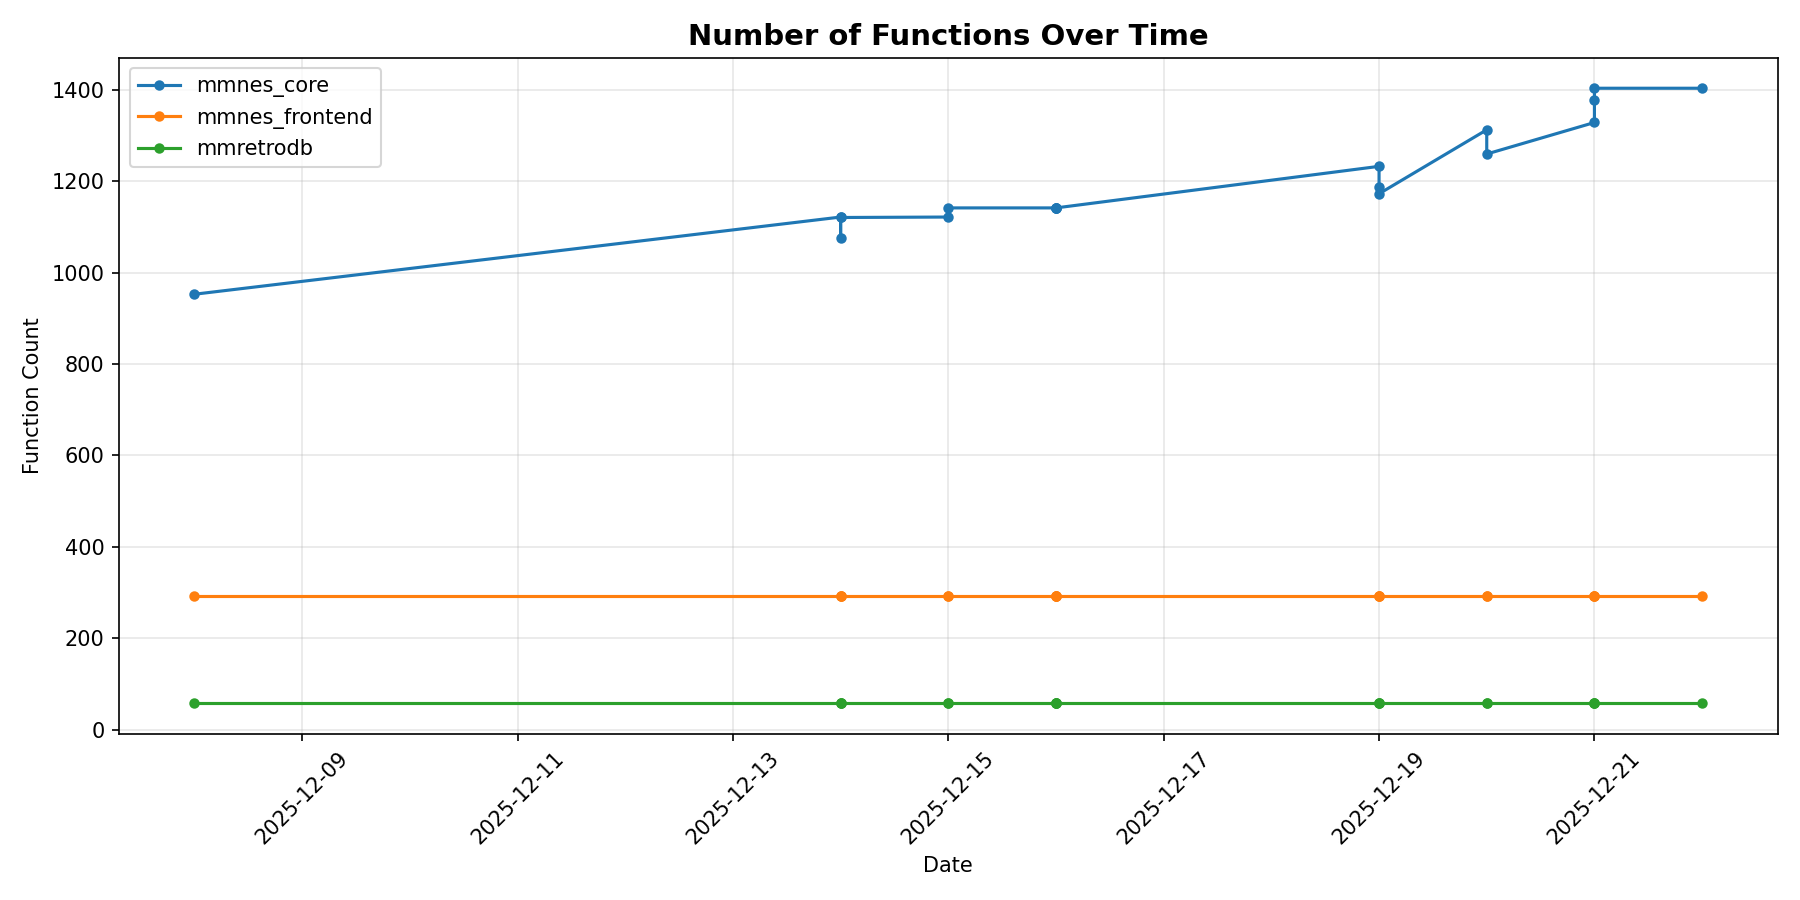
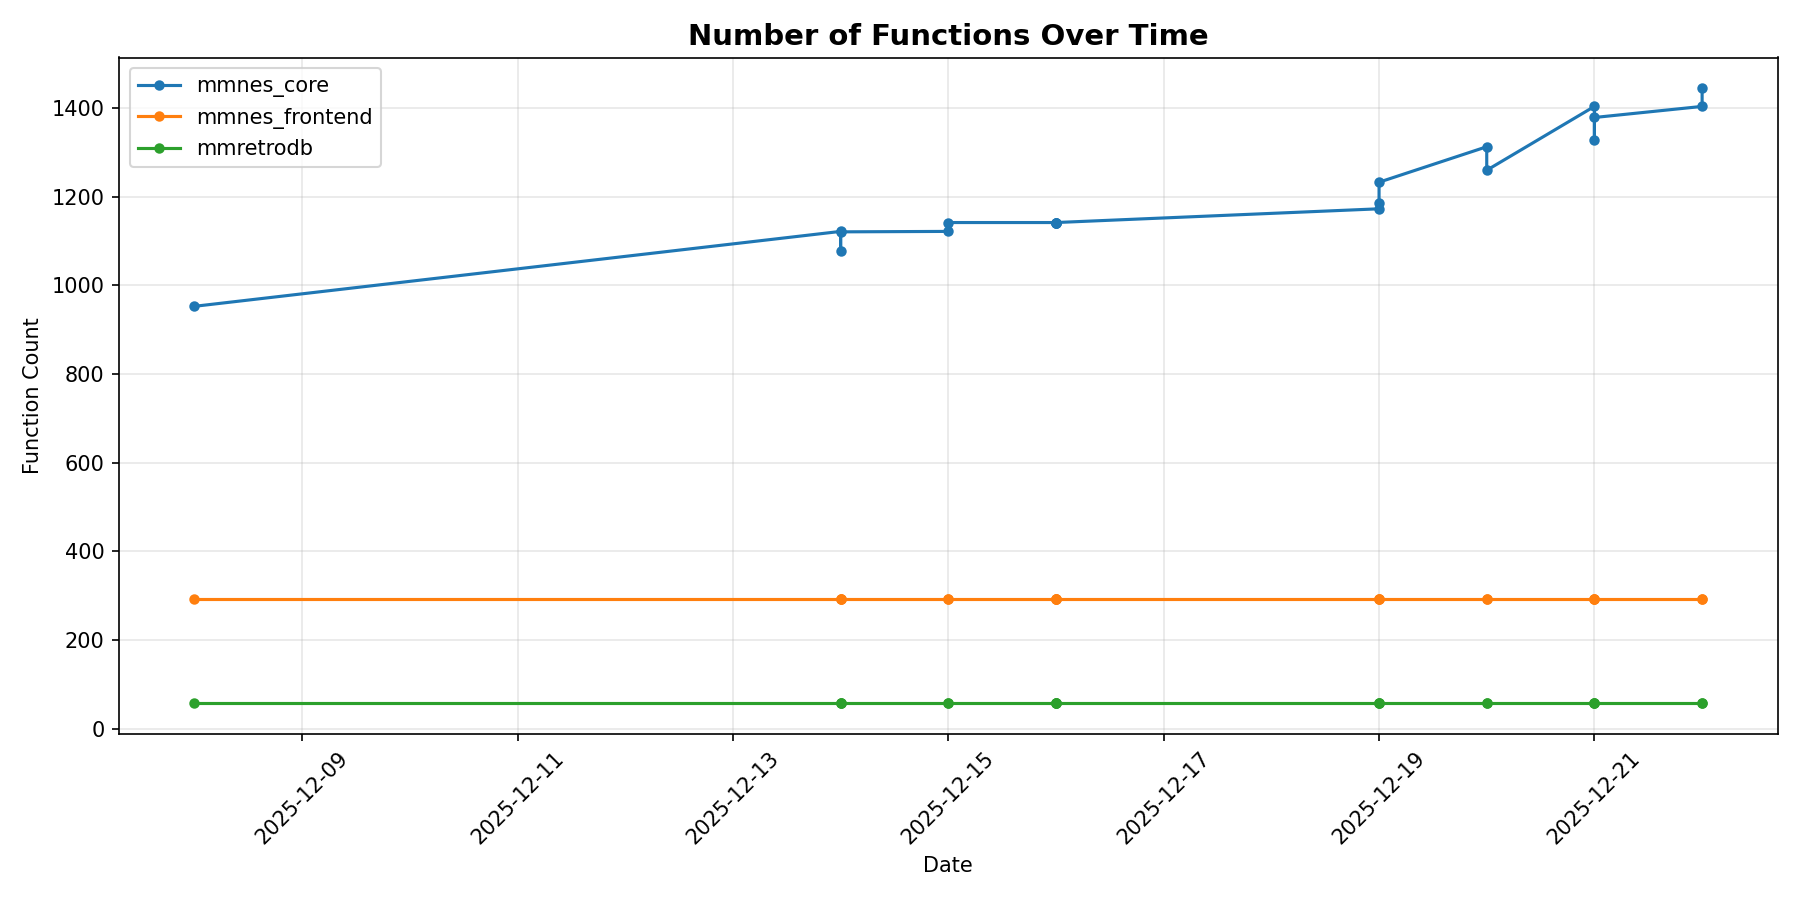
Update metrics data [skip ci]

diff --git a/metrics/data/METRICS_SUMMARY.md b/metrics/data/METRICS_SUMMARY.md
@@ -1,6 +1,6 @@
 # Code Quality Metrics Summary
 
-*Generated: 2025-12-22 19:34:42*
+*Generated: 2025-12-22 21:06:15*
 
 **Latest commit:** `67c28df` on `main`
 
@@ -9,7 +9,7 @@
 | Crate | LOC | Functions | Avg Cyclo | Coverage | Human % | Claude % |
 |-------|-----|-----------|-----------|----------|---------|----------|
 | mmnes_frontend | 4044 | 293 | 3.6 | 0.0% | 98.9% | 1.1% |
-| mmnes_core | 25580 | 1404 | 2.8 | 45.9% | 51.2% | 48.8% |
+| mmnes_core | 26647 | 1445 | 2.8 | 46.3% | 49.1% | 50.9% |
 | mmretrodb | 596 | 58 | 2.8 | 77.0% | 100.0% | 0.0% |
 
 ## Definitions
